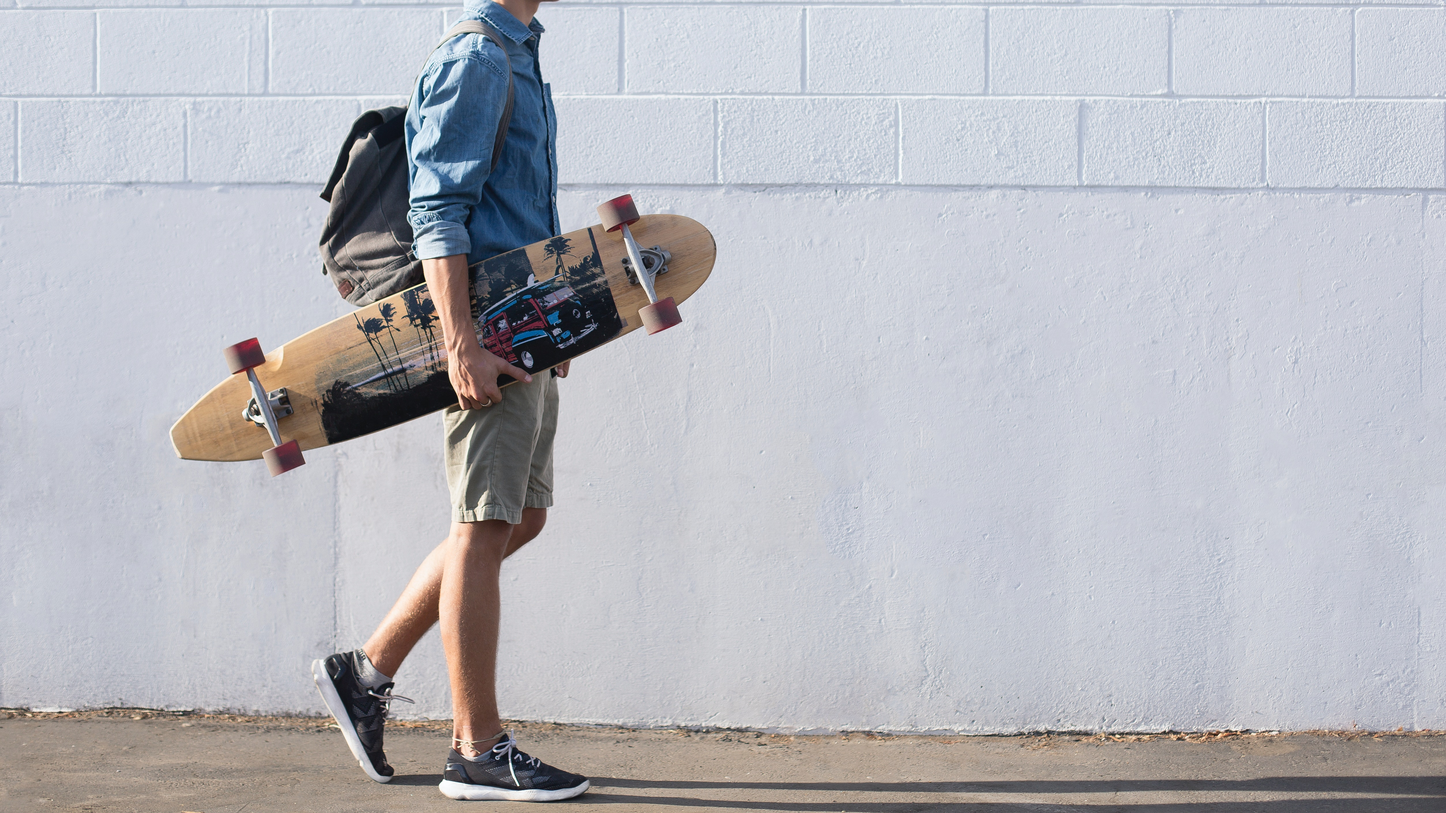
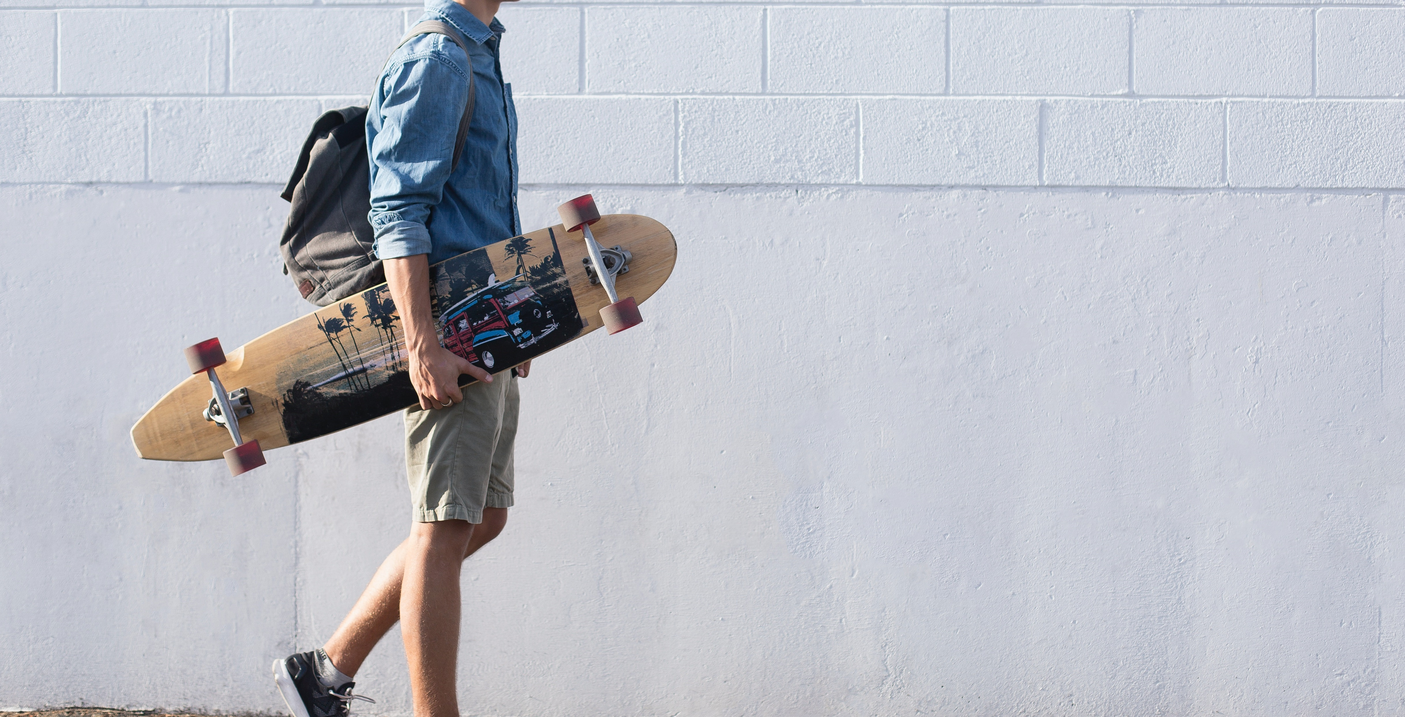
about this project details

diff --git a/src/pages/Project.jsx b/src/pages/Project.jsx
@@ -9,8 +9,13 @@ function Project() {
       <NavBar />
       <div className=" d-flex flex-column align-items-center">
         <div className="row header-container-project">
-          <img src="src/img/about-this-project.jpg" alt="Header img" />
-          <div className="header col-md-6 text-black ps-4 ms-4">
+          <img
+            src="src/img/about-this-project.jpg"
+            alt="Header img"
+            className=" header-image position-absolute"
+          />
+          <div className="fade-overlay-2 position-absolute" />
+          <div className="header col-md-7 text-black ms-4">
             <h1>About this project</h1>
             <p className="fs-5 ">
               Lorem ipsum dolor sit amet consectetur adipisicing elit. Placeat laboriosam aperiam
@@ -21,7 +26,7 @@ function Project() {
         </div>
         <div className="squares row gap-3 d-flex justify-content-center">
           <div className="square col-lg-3 m-2 border rounded">
-            <h5>Duración</h5>
+            <h5>Duration</h5>
             <p>
               Lorem, ipsum dolor sit amet consectetur adipisicing elit. Quod, aspernatur
               consectetur. Voluptatibus ipsum aut autem necessitatibus amet quae delectus.
@@ -30,7 +35,7 @@ function Project() {
             </p>
           </div>
           <div className="square col-lg-3 m-2 border rounded">
-            <h5>Tecnologías</h5>
+            <h5>Tecnologies</h5>
             <p>
               Lorem ipsum dolor sit amet consectetur adipisicing elit. Ratione deserunt, nulla hic,
               similique aspernatur corrupti sit recusandae, voluptatibus illo modi omnis beatae
@@ -38,16 +43,16 @@ function Project() {
             </p>
           </div>
           <div className="square col-lg-3 m-2 border rounded">
-            <h5>División de tareas</h5>
+            <h5>Methodology</h5>
             <p>
               Lorem ipsum dolor sit amet consectetur adipisicing elit. Iusto modi dicta, magnam hic
               aspernatur corporis dolor! Consequuntur, corporis quia laudantium necessitatibus nemo
               dolorem placeat obcaecati ut doloribus rerum expedita facere!
             </p>
           </div>
-          <div className=" team  d-flex flex-column align-items-center justify-content-center gap-3 mx-auto mx-2 ">
+          <div className="team  d-flex flex-column align-items-center justify-content-center gap-3 mx-auto mx-2">
             <div className="p-4">
-              <h2>Equipo</h2>
+              <h2>Team</h2>
               <p>
                 Lorem, ipsum dolor sit amet consectetur adipisicing elit. Deserunt repudiandae dicta
                 asperiores quia eligendi, libero impedit mollitia consequatur, itaque voluptate eos

diff --git a/src/components/TeamCard.jsx b/src/components/TeamCard.jsx
@@ -1,24 +1,34 @@
-import Card from "react-bootstrap/Card";
-import { BsGithub } from "react-icons/bs";
-import { BsLinkedin } from "react-icons/bs";
+import React from "react";
+import { Card, Row, Col } from "react-bootstrap";
+import { BsGithub, BsLinkedin } from "react-icons/bs";
 
 function TeamCard({ img, name, academicInfo, description }) {
   return (
-    <div className="border rounded card ps-0 m-2 ">
-      <Card style={{ width: "24rem" }}>
-        <Card.Img
-          variant="top"
-          src={img}
-          className="rounded"
-          style={{ height: "300px", objectFit: "cover" }}
-        />
-        <Card.Body>
-          <Card.Title className="pb-1">{name}</Card.Title>
-          <Card.Subtitle className="pb-3">{academicInfo}</Card.Subtitle>
-          <Card.Text>{description}</Card.Text>
-          <BsGithub className="m-2 fs-4" />
-          <BsLinkedin className="m-2 fs-4" />
-        </Card.Body>
+    <div className="border rounded card ps-0 m-2">
+      <Card style={{ width: "32rem" }}>
+        <Row noGutters>
+          <Col md={6}>
+            <Card.Img
+              variant="top"
+              src={img}
+              className="rounded"
+              style={{ height: "100%", objectFit: "cover" }}
+            />
+          </Col>
+          <Col md={6}>
+            <Card.Body className="d-flex flex-column justify-content-between h-100">
+              <div>
+                <Card.Title className="pb-1">{name}</Card.Title>
+                <Card.Subtitle className="pb-3">{academicInfo}</Card.Subtitle>
+                <Card.Text>{description}</Card.Text>
+              </div>
+              <div>
+                <BsGithub className="m-2 fs-4" />
+                <BsLinkedin className="m-2 fs-4" />
+              </div>
+            </Card.Body>
+          </Col>
+        </Row>
       </Card>
     </div>
   );

diff --git a/src/pages/Project.css b/src/pages/Project.css
@@ -1,6 +1,9 @@
 .header {
   height: 90vh;
-  padding-top: 30vh;
+  padding-top: 41vh;
+  z-index: 1;
+  padding-left: 10vw;
+  padding-right: 5vw;
 }
 
 .header-container-project {
@@ -32,4 +35,18 @@
 .project-container {
   width: 100%;
   overflow-x: hidden;
+}
+
+.fade-overlay-2 {
+  position: absolute;
+  height: 100%;
+  width: 100%;
+  opacity: 0;
+  background: linear-gradient(to bottom, rgba(255, 255, 255, 0) 60%, white);
+  animation: fadeAnimation 1s ease-in-out forwards;
+}
+
+.team {
+  padding: 0 15vw 0 15vw;
+  margin-top: 5vh;
 }
